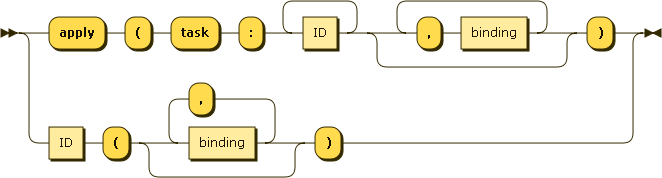
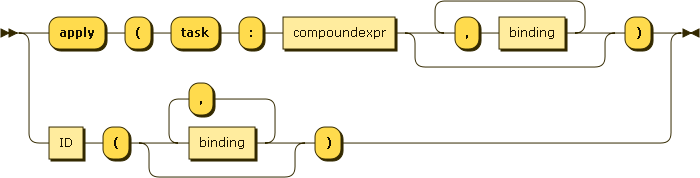
Syntax definition slightly updated.

Changed region(s): [[0.0, 0.0, 0.997, 1.0], [0.423, 0.0, 0.5438, 0.0281], [0.3927, 0.9831, 0.4532, 1.0]]

diff --git a/syntax_app.rst b/syntax_app.rst
@@ -4,9 +4,9 @@ Application (app)
 =================
 
 An Application (app) can be either explicit or an implicit. An explicit
-Application starts with the keyword *apply* and binds the special parameter
-*task* to one or more tasks identified by their IDs. An implicit application is
-equivalent to an explicit application with exactly one task ID.
+Application starts with the keyword ``apply`` and binds the special parameter
+``task`` to a :ref:`syntax_compoundexpr` of Task Definitions. An implicit
+application is equivalent to an explicit application with exactly one task ID.
 
 A :ref:`syntax_expr` can be an Application.
 
@@ -16,11 +16,12 @@ A :ref:`syntax_expr` can be an Application.
 
 ::
 
-    app ::= 'apply' '(' 'task' ':' ID+ ( ',' binding )* ')'
+    app ::= 'apply' '(' 'task' ':' compoundexpr ( ',' binding )* ')'
           | ID '(' ( binding ( ',' binding )* )? ')'
     
 References:
 
+- :ref:`syntax_compoundexpr`
 - :ref:`syntax_binding`
 
 ID:
@@ -30,11 +31,11 @@ ID:
 Examples
 --------
 
-An implicit Application of the task *sim* consuming no input parameters::
+An implicit Application of the task ``sim`` consuming no input parameters::
 	
     sim()
     
-An implicit Application of the task *greet* binding its only parameter *person*
+An implicit Application of the task ``greet`` binding its only parameter ``person``
 to a Compound Expression consisting of three string literals::
 	
     greet( person: "Jenny" "Peter" "John" )
@@ -43,8 +44,8 @@ An explicit Application of the task sim::
 	
     apply( task: sim )
     
-An explicit application of the tasks *bowtie2-align* and *bwa-align* binding
-their two input parameters *idx* and *fastq*::
+An explicit application of the tasks ``bowtie2-align`` and ``bwa-align`` binding
+their two input parameters ``idx`` and ``fastq``::
 	
     apply( task:  bowtie2-align bwa-align,
            idx:   bowtie2-idx bwa-idx

diff --git a/syntax_cur.rst b/syntax_cur.rst
@@ -5,7 +5,7 @@ Curry Expression (cur)
 
 A Curry Expression (cur) simplifies a Task Definition by binding one or more
 of its parameters. It starts with the keyword ``curry`` and binds the special parameter
-``task`` to one or more tasks identified by their IDs. Then follow parameter
+``task`` to a :ref:`syntax_compoundexpr` of Task Definitions. Then follow parameter
 bindings.
 
 A :ref:`syntax_expr` can be a Curry Expression.
@@ -16,10 +16,11 @@ A :ref:`syntax_expr` can be a Curry Expression.
 
 ::
 
-    cur ::= 'curry' '(' 'task' ':' ID+ ( ',' binding )+ ')'
+    cur ::= 'curry' '(' 'task' ':' compoundexpr ( ',' binding )+ ')'
     
 References:
 
+- :ref:`syntax_compoundexpr`
 - :ref:`syntax_binding`
 
 ID:

diff --git a/syntax.rst b/syntax.rst
@@ -48,10 +48,10 @@ Complete Cuneiform syntax in EBNF::
                    
     cond         ::= 'if' compoundexpr 'then' compoundexpr 'else' compoundexpr 'end'
     
-    app          ::= 'apply' '(' 'task' ':' ID+ ( ',' binding )* ')'
+    app          ::= 'apply' '(' 'task' ':' compoundexpr ( ',' binding )* ')'
                    | ID '(' ( binding ( ',' binding )* )? ')'
                    
-    cur          ::= 'curry' '(' 'task' ':' ID+ ( ',' binding )+ ')'
+    cur          ::= 'curry' '(' 'task' ':' compoundexpr ( ',' binding )+ ')'
                    
     binding      ::= ID ':' compoundexpr
     
